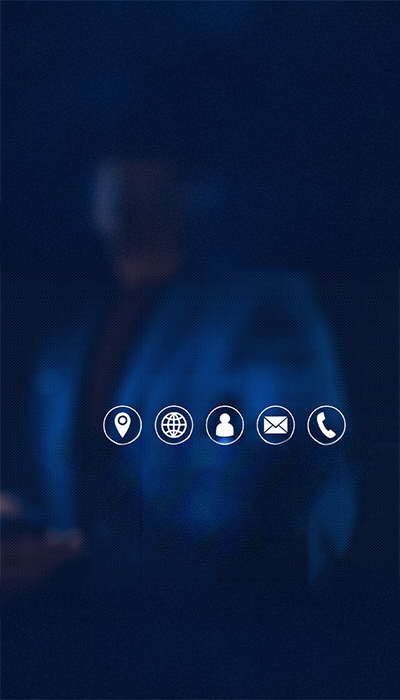
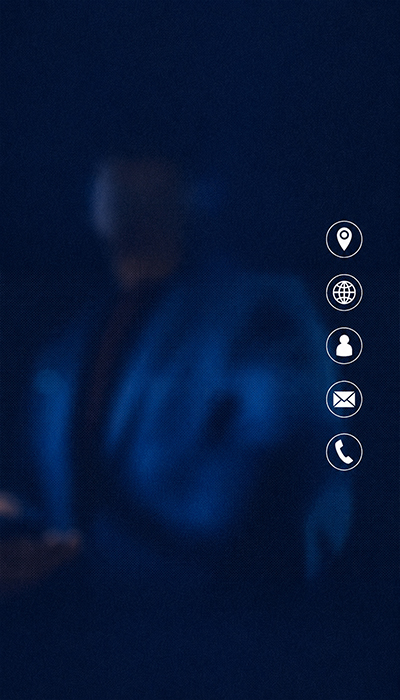
Contact us image change and header content made visible in mobile version

Changed region(s): [[0.39, 0.3, 0.93, 0.69], [0.24, 0.57, 0.36, 0.66]]

diff --git a/design/universal-new.css b/design/universal-new.css
@@ -1140,7 +1140,7 @@ header #btn-search:focus,
 
 @media (max-width: 768px) {
     .hero-wrapper {
-        display: none !important;
+        /* display: none !important; */
     }
 
     .navbar {
@@ -1502,10 +1502,6 @@ header #btn-search:focus,
         padding: 0;
     }
 
-    /* .snap-section {
-        min-height: 100% !important;
-    } */
-
     .footer-logo {
         max-width: 120px;
         margin-top: 50px;
@@ -1513,6 +1509,8 @@ header #btn-search:focus,
         margin-right: 0px;
         margin-bottom: 0px;
     }
+
+  
 
     .footer-grid {
         grid-template-columns: 1fr;

diff --git a/contact.html b/contact.html
@@ -507,6 +507,10 @@
                 Want to get in touch? We'd love to hear from you. Here's how you
                 can reach us...
               </p>
+              <p class="mobile">
+                Want to get in touch? Here's how you <br>
+                can reach us...
+              </p>
               <!-- <button class="btn btn-primary">
                     <a href="#">
                       View Projects

diff --git a/design/style_new copy.css b/design/style_new copy.css
@@ -2646,7 +2646,7 @@ font-size: 22px;
     .hero-wrapper {
         top: 50%;
         left: 50%;
-        transform: translate(-50%, 10%);
+        transform: translate(-50%, -40%);
         padding: 0;
         position: absolute;
     }

diff --git a/design/contact.css b/design/contact.css
@@ -267,6 +267,17 @@
  }
 
 
+ @media (max-width:576px){
+
+  .hero-content p{
+    display: none;
+  }
+  .hero-content .mobile{
+    display: flex;
+  }
+ }
+
+
 
 
 
